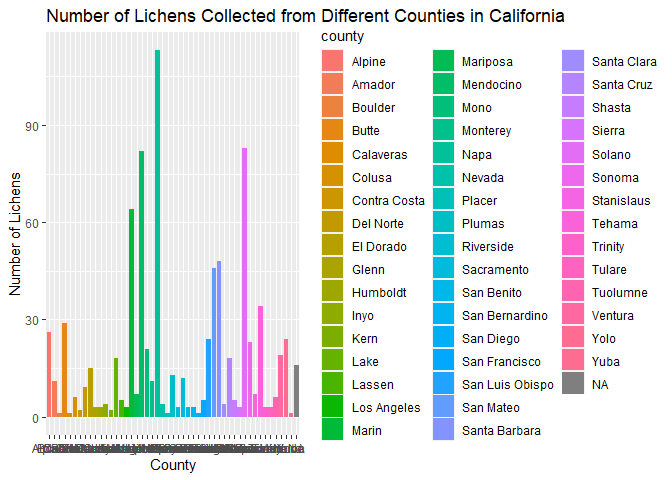
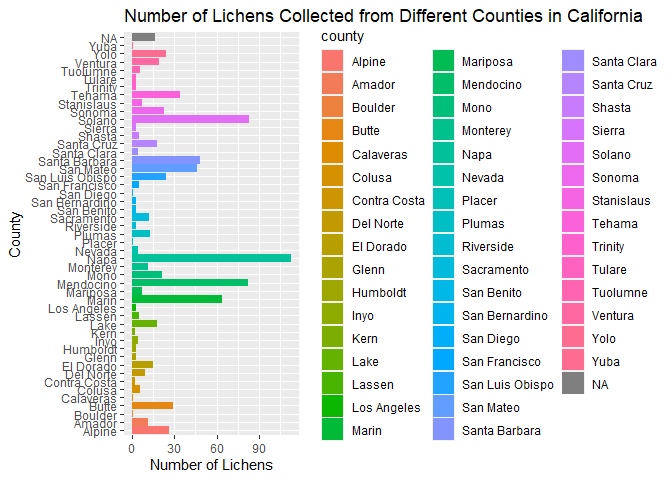
update

Changed region(s): [[0.0, 0.0, 0.9688, 1.0], [0.0312, 0.6562, 0.0625, 0.6875], [0.0312, 0.25, 0.0625, 0.2812]]

diff --git a/lichens.html b/lichens.html
@@ -193,7 +193,7 @@ pre code {
 ## x dplyr::filter() masks stats::filter()
 ## x dplyr::lag()    masks stats::lag()</code></pre>
 <pre class="r"><code>library(here)</code></pre>
-<pre><code>## here() starts at C:/Users/KAREN/Documents/DAV-Lichens</code></pre>
+<pre><code>## here() starts at C:/Users/KAREN/Documents/DAV-Lichens/data</code></pre>
 <pre class="r"><code>library(janitor)</code></pre>
 <pre><code>## 
 ##  次のパッケージを付け加えます: &#39;janitor&#39;</code></pre>
@@ -211,8 +211,8 @@ library(naniar)</code></pre>
 ## 
 ##      n_complete</code></pre>
 <pre class="r"><code>getwd()</code></pre>
-<pre><code>## [1] &quot;C:/Users/KAREN/Documents/DAV-Lichens&quot;</code></pre>
-<pre class="r"><code>lichen_data &lt;- read_csv(here(&quot;data&quot;, &quot;occurrences.csv&quot;)) %&gt;% clean_names()</code></pre>
+<pre><code>## [1] &quot;C:/Users/KAREN/Documents/DAV-Lichens/data&quot;</code></pre>
+<pre class="r"><code>lichen_data &lt;- read_csv(here(&quot;occurrences.csv&quot;)) %&gt;% clean_names()</code></pre>
 <pre><code>## Warning: One or more parsing issues, see `problems()` for details</code></pre>
 <pre><code>## Rows: 1628 Columns: 91
 ## -- Column specification --------------------------------------------------------
@@ -405,11 +405,12 @@ lichens</code></pre>
   filter(state_province==&quot;California&quot;) %&gt;% 
   ggplot(aes(x= county, fill= county))+
   geom_bar(position=&quot;dodge&quot;)+
+  coord_flip()+
   labs(title = &quot;Number of Lichens Collected from Different Counties in California&quot;,
        x = &quot;County&quot;,
        y = &quot;Number of Lichens&quot;)</code></pre>
[1 lines of base64/hex data omitted]
-<pre class="r"><code>berkeley_lichen &lt;- read_csv(here(&quot;data&quot;, &quot;occurrences_berkeley.csv&quot;)) %&gt;% clean_names()</code></pre>
[1 lines of base64/hex data omitted]
+<pre class="r"><code>berkeley_lichen &lt;- read_csv(here(&quot;occurrences_berkeley.csv&quot;)) %&gt;% clean_names()</code></pre>
 <pre><code>## Warning: One or more parsing issues, see `problems()` for details</code></pre>
 <pre><code>## Rows: 55364 Columns: 91
 ## -- Column specification --------------------------------------------------------

diff --git a/lichens.md b/lichens.md
@@ -47,7 +47,7 @@ library(here)
 ```
 
 ```
-## here() starts at C:/Users/KAREN/Documents/DAV-Lichens
+## here() starts at C:/Users/KAREN/Documents/DAV-Lichens/data
 ```
 
 ```r
@@ -90,12 +90,12 @@ getwd()
 ```
 
 ```
-## [1] "C:/Users/KAREN/Documents/DAV-Lichens"
+## [1] "C:/Users/KAREN/Documents/DAV-Lichens/data"
 ```
 
 
 ```r
-lichen_data <- read_csv(here("data", "occurrences.csv")) %>% clean_names()
+lichen_data <- read_csv(here("occurrences.csv")) %>% clean_names()
 ```
 
 ```
@@ -377,6 +377,7 @@ lichens %>%
   filter(state_province=="California") %>% 
   ggplot(aes(x= county, fill= county))+
   geom_bar(position="dodge")+
+  coord_flip()+
   labs(title = "Number of Lichens Collected from Different Counties in California",
        x = "County",
        y = "Number of Lichens")
@@ -386,7 +387,7 @@ lichens %>%
 
 
 ```r
-berkeley_lichen <- read_csv(here("data", "occurrences_berkeley.csv")) %>% clean_names()
+berkeley_lichen <- read_csv(here("occurrences_berkeley.csv")) %>% clean_names()
 ```
 
 ```
